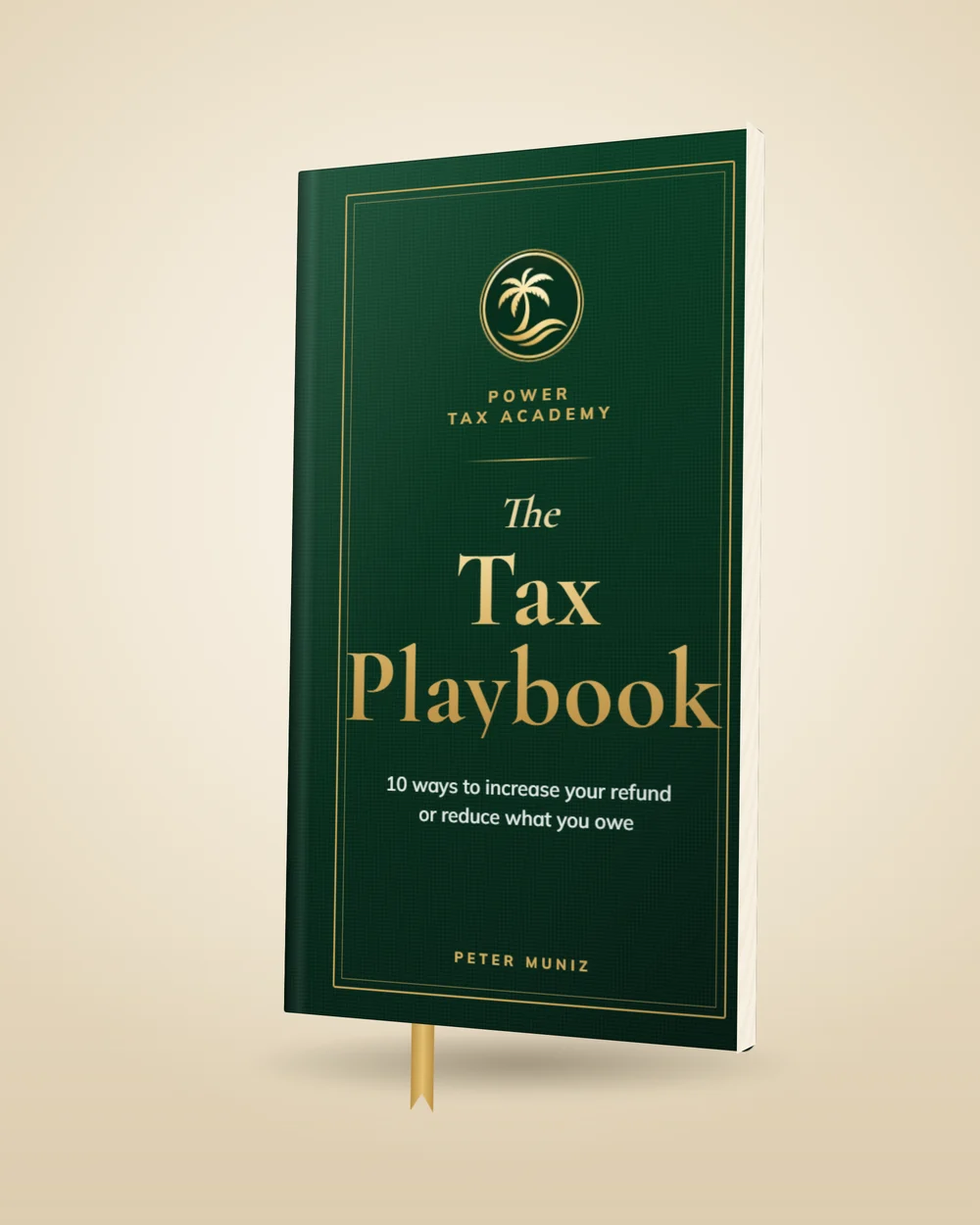
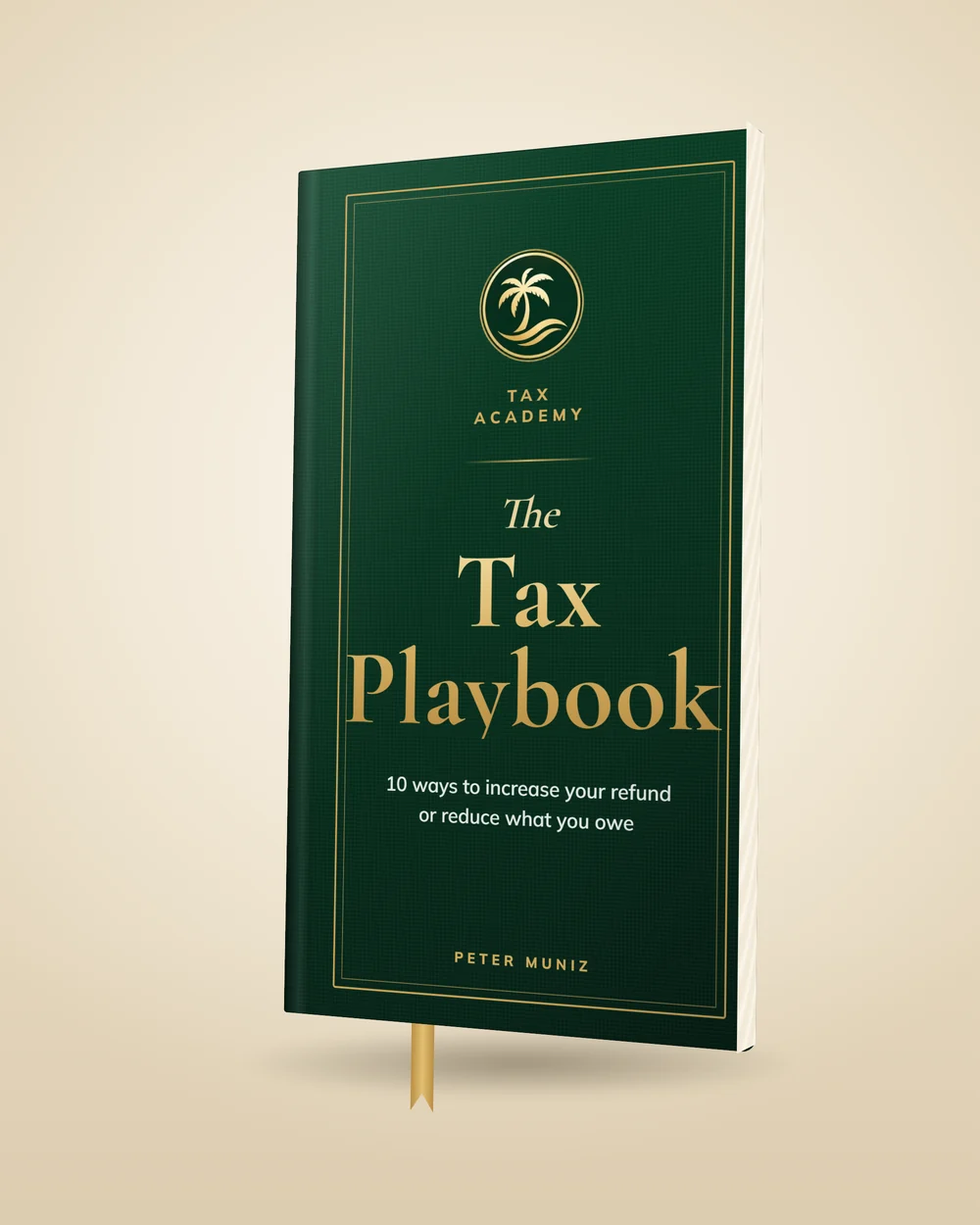
Three tax academies (Coastal Bend / Purpose / Power), 50% down, Square first, PayPal Pay Later

diff --git a/tax-academy/index.html b/tax-academy/index.html
@@ -3,16 +3,16 @@
 <head>
 <meta charset="UTF-8">
 <meta name="viewport" content="width=device-width, initial-scale=1, viewport-fit=cover">
-<title>Power Tax Academy: Tax Playbooks &amp; Coaching | Coastal Bend Tax &amp; Financial</title>
-<meta name="description" content="Power Tax Academy by Peter Muniz: Tax Playbook $399, Tax Playbook &amp; Me $699, VIP $999. $150 deposit option. Plus monthly and per-case support for tax preparers.">
+<title>Tax Academy: Coastal Bend, Purpose &amp; Power | Coastal Bend Tax &amp; Financial</title>
+<meta name="description" content="Three levels of tax education with Peter Muniz: Coastal Bend Tax Academy $399, Purpose Tax Academy $699, Power Tax Academy $999. 50% down to start. Plus support for tax preparers.">
 <meta name="robots" content="noindex, nofollow">
 <meta name="theme-color" content="#062E1C">
 <link rel="canonical" href="https://jzonkel1.github.io/cbtf-preview/tax-academy/">
 <meta property="og:type" content="website">
 <meta property="og:site_name" content="Coastal Bend Tax &amp; Financial">
 <meta property="og:url" content="https://jzonkel1.github.io/cbtf-preview/tax-academy/">
-<meta property="og:title" content="Power Tax Academy: Tax Playbooks &amp; Coaching | Coastal Bend Tax &amp; Financial">
-<meta property="og:description" content="Power Tax Academy by Peter Muniz: Tax Playbook $399, Tax Playbook &amp; Me $699, VIP $999. $150 deposit option. Plus monthly and per-case support for tax preparers.">
+<meta property="og:title" content="Tax Academy: Coastal Bend, Purpose &amp; Power | Coastal Bend Tax &amp; Financial">
+<meta property="og:description" content="Three levels of tax education with Peter Muniz: Coastal Bend Tax Academy $399, Purpose Tax Academy $699, Power Tax Academy $999. 50% down to start. Plus support for tax preparers.">
 <meta property="og:image" content="https://jzonkel1.github.io/cbtf-preview/img/og.jpg?v=2">
 <meta property="og:image:secure_url" content="https://jzonkel1.github.io/cbtf-preview/img/og.jpg?v=2">
 <meta property="og:image:width" content="1200">
@@ -56,26 +56,26 @@
   <picture><source media="(max-width:760px)" srcset="../img/hero-academy-m.webp"><img src="../img/hero-academy.webp" alt="Laptop, notepad and coffee on a desk" style="object-position:50% 50%" fetchpriority="high"></picture>
   <div class="wrap"><div class="fh-copy">
     <div class="crumbs"><a href="../">Home</a> &nbsp;/&nbsp; Tax Academy</div>
-    <span class="who-does direct">Provided directly</span><br><div class="kick left">Power Tax Academy</div>
+    <span class="who-does direct">Provided directly</span><br><div class="kick left">Three Tax Academies</div>
     <h1><span class="nw">Learn it.</span> <span class="nw">Apply it.</span> <span class="nw">Teach it.</span></h1>
-    <p class="lede">Learn to handle your taxes the right way, at your own pace or with Pete coaching you. Three packages, starting at $399.</p>
+    <p class="lede">Tax education and training from Peter Muniz, at your own pace or with Pete coaching you. Three levels, starting at $399.</p>
     <div class="ctas"><a class="btn btn-gold" href="#packages">See the Packages</a><a class="btn btn-line-light" href="../contact/?type=academy"><svg viewBox="0 0 256 256" fill="currentColor"><path d="M208 32h-24v-8a8 8 0 0 0-16 0v8H88v-8a8 8 0 0 0-16 0v8H48a16 16 0 0 0-16 16v160a16 16 0 0 0 16 16h160a16 16 0 0 0 16-16V48a16 16 0 0 0-16-16Zm-38.34 85.66-48 48a8 8 0 0 1-11.32 0l-24-24a8 8 0 0 1 11.32-11.32L116 148.69l42.34-42.35a8 8 0 0 1 11.32 11.32ZM48 80V48h24v8a8 8 0 0 0 16 0v-8h80v8a8 8 0 0 0 16 0v-8h24v32Z"/></svg>Book an Academy Call</a></div>
     <div class="trust"><span><svg viewBox="0 0 256 256" fill="currentColor"><path d="M128 24a104 104 0 1 0 104 104A104.11 104.11 0 0 0 128 24Zm45.66 85.66-56 56a8 8 0 0 1-11.32 0l-24-24a8 8 0 0 1 11.32-11.32L112 148.69l50.34-50.35a8 8 0 0 1 11.32 11.32Z"/></svg>20+ years in finance</span><span><svg viewBox="0 0 256 256" fill="currentColor"><path d="M128 24a104 104 0 1 0 104 104A104.11 104.11 0 0 0 128 24Zm45.66 85.66-56 56a8 8 0 0 1-11.32 0l-24-24a8 8 0 0 1 11.32-11.32L112 148.69l50.34-50.35a8 8 0 0 1 11.32 11.32Z"/></svg>Open 7 days</span><span><svg viewBox="0 0 256 256" fill="currentColor"><path d="M128 24a104 104 0 1 0 104 104A104.11 104.11 0 0 0 128 24Zm45.66 85.66-56 56a8 8 0 0 1-11.32 0l-24-24a8 8 0 0 1 11.32-11.32L112 148.69l50.34-50.35a8 8 0 0 1 11.32 11.32Z"/></svg>Se habla espa&ntilde;ol</span></div>
   </div></div>
 </section><section class="tstrip"><div class="wrap"><ul><li><svg viewBox="0 0 256 256" fill="currentColor" aria-hidden="true"><path fill="currentColor" d="M225.86 102.82c-3.77-3.94-7.67-8-9.14-11.57c-1.36-3.27-1.44-8.69-1.52-13.94c-.15-9.76-.31-20.82-8-28.51s-18.75-7.85-28.51-8c-5.25-.08-10.67-.16-13.94-1.52c-3.56-1.47-7.63-5.37-11.57-9.14C146.28 23.51 138.44 16 128 16s-18.27 7.51-25.18 14.14c-3.94 3.77-8 7.67-11.57 9.14c-3.25 1.36-8.69 1.44-13.94 1.52c-9.76.15-20.82.31-28.51 8s-7.8 18.75-8 28.51c-.08 5.25-.16 10.67-1.52 13.94c-1.47 3.56-5.37 7.63-9.14 11.57C23.51 109.72 16 117.56 16 128s7.51 18.27 14.14 25.18c3.77 3.94 7.67 8 9.14 11.57c1.36 3.27 1.44 8.69 1.52 13.94c.15 9.76.31 20.82 8 28.51s18.75 7.85 28.51 8c5.25.08 10.67.16 13.94 1.52c3.56 1.47 7.63 5.37 11.57 9.14c6.9 6.63 14.74 14.14 25.18 14.14s18.27-7.51 25.18-14.14c3.94-3.77 8-7.67 11.57-9.14c3.27-1.36 8.69-1.44 13.94-1.52c9.76-.15 20.82-.31 28.51-8s7.85-18.75 8-28.51c.08-5.25.16-10.67 1.52-13.94c1.47-3.56 5.37-7.63 9.14-11.57c6.63-6.9 14.14-14.74 14.14-25.18s-7.51-18.27-14.14-25.18m-52.2 6.84l-56 56a8 8 0 0 1-11.32 0l-24-24a8 8 0 0 1 11.32-11.32L112 148.69l50.34-50.35a8 8 0 0 1 11.32 11.32"/></svg><div>20+ years in finance<span>City, Port &amp; private sector</span></div></li><li><svg viewBox="0 0 256 256" fill="currentColor" aria-hidden="true"><path fill="currentColor" d="M176 207.24a119 119 0 0 0 16-7.73V240a8 8 0 0 1-16 0Zm11.76-88.43l-56-29.87a8 8 0 0 0-7.52 14.12L171 128l17-9.06Zm64-29.87l-120-64a8 8 0 0 0-7.52 0l-120 64a8 8 0 0 0 0 14.12L32 117.87v48.42a15.9 15.9 0 0 0 4.06 10.65C49.16 191.53 78.51 216 128 216a130 130 0 0 0 48-8.76v-76.57l-5-2.67l-43 22.93L43.83 106L25 96l103-54.93L231 96l-18.78 10h-.06L188 118.94a8 8 0 0 1 4 6.93v73.64a115.6 115.6 0 0 0 27.94-22.57a15.9 15.9 0 0 0 4.06-10.65v-48.42l27.76-14.81a8 8 0 0 0 0-14.12"/></svg><div>Master&rsquo;s in Accounting<span>Texas A&amp;M&ndash;Corpus Christi</span></div></li><li><svg viewBox="0 0 256 256" fill="currentColor" aria-hidden="true"><path fill="currentColor" d="M128 24a104 104 0 1 0 104 104A104.11 104.11 0 0 0 128 24m56 112h-56a8 8 0 0 1-8-8V72a8 8 0 0 1 16 0v48h48a8 8 0 0 1 0 16"/></svg><div>Open 7 days<span>10 AM to 7 PM</span></div></li><li><svg viewBox="0 0 256 256" fill="currentColor" aria-hidden="true"><path fill="currentColor" d="M160 129.89L175.06 160h-30.12l6.36-12.7ZM224 48v160a16 16 0 0 1-16 16H48a16 16 0 0 1-16-16V48a16 16 0 0 1 16-16h160a16 16 0 0 1 16 16m-16.84 140.42l-40-80a8 8 0 0 0-14.32 0l-13.18 26.38a62.3 62.3 0 0 1-23.61-10A79.6 79.6 0 0 0 135.6 80H152a8 8 0 0 0 0-16h-40v-8a8 8 0 0 0-16 0v8H56a8 8 0 0 0 0 16h63.48a63.73 63.73 0 0 1-15.3 34.05a66 66 0 0 1-9-13.61a8 8 0 0 0-14.32 7.12a81.8 81.8 0 0 0 11.4 17.15A63.6 63.6 0 0 1 56 136a8 8 0 0 0 0 16a79.56 79.56 0 0 0 48.11-16.13a78.3 78.3 0 0 0 28.18 13.66l-19.45 38.89a8 8 0 0 0 14.32 7.16l9.78-19.58h46.12l9.78 19.58a8 8 0 1 0 14.32-7.16"/></svg><div>Se habla espa&ntilde;ol<span>In person, phone or online</span></div></li></ul></div></section>
 <section id="packages"><div class="wrap">
-  <div class="sec-head c"><div class="kick">Power Tax Academy</div><h2>Pick how much help you want.</h2>
-    <p class="lead">Pay in full, or hold your spot with a $150 deposit that applies toward any package.</p></div>
-  <div class="pkg-grid"><article class="pkg" id="pkg-playbook"><div class="ic"><svg viewBox="0 0 256 256" fill="currentColor"><path d="M224 48h-64a40 40 0 0 0-32 16 40 40 0 0 0-32-16H32a16 16 0 0 0-16 16v128a16 16 0 0 0 16 16h64a24 24 0 0 1 24 24 8 8 0 0 0 16 0 24 24 0 0 1 24-24h64a16 16 0 0 0 16-16V64a16 16 0 0 0-16-16Zm0 144h-64a39.81 39.81 0 0 0-24 8V88a24 24 0 0 1 24-24h64Z"/></svg></div><h3>Tax Playbook</h3><div class="pkg-price">$399</div><ul class="pkg-list"><li><svg viewBox="0 0 256 256" fill="currentColor"><path d="M128 24a104 104 0 1 0 104 104A104.11 104.11 0 0 0 128 24Zm45.66 85.66-56 56a8 8 0 0 1-11.32 0l-24-24a8 8 0 0 1 11.32-11.32L112 148.69l50.34-50.35a8 8 0 0 1 11.32 11.32Z"/></svg>Book and training materials</li><li><svg viewBox="0 0 256 256" fill="currentColor"><path d="M128 24a104 104 0 1 0 104 104A104.11 104.11 0 0 0 128 24Zm45.66 85.66-56 56a8 8 0 0 1-11.32 0l-24-24a8 8 0 0 1 11.32-11.32L112 148.69l50.34-50.35a8 8 0 0 1 11.32 11.32Z"/></svg>Learn at your own pace</li><li class="no">No personal coaching</li></ul><div class="buy"><div class="opts" role="radiogroup"><label><input type="radio" name="oTaxPlaybook" value="0" checked data-name="Tax Playbook" data-amt="399.00" data-href="https://www.paypal.com/cgi-bin/webscr?business=petermuniz%40outlook.com&amp;item_name=Tax+Playbook&amp;currency_code=USD&amp;no_shipping=1&amp;return=https%3A%2F%2Fjzonkel1.github.io%2Fcbtf-preview%2Fthanks%2F%3Fpaid%3D1&amp;cmd=_xclick&amp;amount=399.00"><span><b>Pay in full</b></span><em>$399</em></label><label><input type="radio" name="oTaxPlaybook" value="1" data-name="Tax Playbook - $150 deposit" data-amt="150.00" data-href="https://www.paypal.com/cgi-bin/webscr?business=petermuniz%40outlook.com&amp;item_name=Tax+Playbook+-+%24150+deposit&amp;currency_code=USD&amp;no_shipping=1&amp;return=https%3A%2F%2Fjzonkel1.github.io%2Fcbtf-preview%2Fthanks%2F%3Fpaid%3D1&amp;cmd=_xclick&amp;amount=150.00"><span><b>$150 deposit</b><small>Applies toward your package. $249 remaining.</small></span><em>$150</em></label></div><div class="pp" data-name="Tax Playbook" data-amt="399.00" data-ok="../thanks/?paid=1"></div><a class="btn btn-gold pp-fallback" href="https://www.paypal.com/cgi-bin/webscr?business=petermuniz%40outlook.com&amp;item_name=Tax+Playbook&amp;currency_code=USD&amp;no_shipping=1&amp;return=https%3A%2F%2Fjzonkel1.github.io%2Fcbtf-preview%2Fthanks%2F%3Fpaid%3D1&amp;cmd=_xclick&amp;amount=399.00" rel="nofollow">Pay with PayPal</a><small class="pp-note">Secure checkout with PayPal or a debit/credit card.</small></div></article><article class="pkg" id="pkg-playbook-me"><div class="ic"><svg viewBox="0 0 256 256" fill="currentColor"><path d="M230.92 212c-15.23-26.33-38.7-45.21-66.09-54.16a72 72 0 1 0-73.66 0c-27.39 8.94-50.86 27.82-66.09 54.16a8 8 0 1 0 13.85 8c18.84-32.56 52.14-52 89.07-52s70.23 19.44 89.07 52a8 8 0 1 0 13.85-8Z"/></svg></div><h3>Tax Playbook &amp; Me</h3><div class="pkg-price">$699</div><ul class="pkg-list"><li><svg viewBox="0 0 256 256" fill="currentColor"><path d="M128 24a104 104 0 1 0 104 104A104.11 104.11 0 0 0 128 24Zm45.66 85.66-56 56a8 8 0 0 1-11.32 0l-24-24a8 8 0 0 1 11.32-11.32L112 148.69l50.34-50.35a8 8 0 0 1 11.32 11.32Z"/></svg>Everything in the Tax Playbook</li><li><svg viewBox="0 0 256 256" fill="currentColor"><path d="M128 24a104 104 0 1 0 104 104A104.11 104.11 0 0 0 128 24Zm45.66 85.66-56 56a8 8 0 0 1-11.32 0l-24-24a8 8 0 0 1 11.32-11.32L112 148.69l50.34-50.35a8 8 0 0 1 11.32 11.32Z"/></svg>Limited personal coaching</li><li class="no">No priority scheduling</li></ul><div class="buy"><div class="opts" role="radiogroup"><label><input type="radio" name="oTaxPlaybookampMe" value="0" checked data-name="Tax Playbook &amp; Me" data-amt="699.00" data-href="https://www.paypal.com/cgi-bin/webscr?business=petermuniz%40outlook.com&amp;item_name=Tax+Playbook+%26+Me&amp;currency_code=USD&amp;no_shipping=1&amp;return=https%3A%2F%2Fjzonkel1.github.io%2Fcbtf-preview%2Fthanks%2F%3Fpaid%3D1&amp;cmd=_xclick&amp;amount=699.00"><span><b>Pay in full</b></span><em>$699</em></label><label><input type="radio" name="oTaxPlaybookampMe" value="1" data-name="Tax Playbook &amp; Me - $150 deposit" data-amt="150.00" data-href="https://www.paypal.com/cgi-bin/webscr?business=petermuniz%40outlook.com&amp;item_name=Tax+Playbook+%26+Me+-+%24150+deposit&amp;currency_code=USD&amp;no_shipping=1&amp;return=https%3A%2F%2Fjzonkel1.github.io%2Fcbtf-preview%2Fthanks%2F%3Fpaid%3D1&amp;cmd=_xclick&amp;amount=150.00"><span><b>$150 deposit</b><small>Applies toward your package. $549 remaining.</small></span><em>$150</em></label></div><div class="pp" data-name="Tax Playbook &amp; Me" data-amt="699.00" data-ok="../thanks/?paid=1"></div><a class="btn btn-gold pp-fallback" href="https://www.paypal.com/cgi-bin/webscr?business=petermuniz%40outlook.com&amp;item_name=Tax+Playbook+%26+Me&amp;currency_code=USD&amp;no_shipping=1&amp;return=https%3A%2F%2Fjzonkel1.github.io%2Fcbtf-preview%2Fthanks%2F%3Fpaid%3D1&amp;cmd=_xclick&amp;amount=699.00" rel="nofollow">Pay with PayPal</a><small class="pp-note">Secure checkout with PayPal or a debit/credit card.</small></div></article><article class="pkg feat" id="pkg-vip"><span class="pkg-flag">Most coaching</span><div class="ic"><svg viewBox="0 0 256 256" fill="currentColor"><path d="M239.2 97.29a16 16 0 0 0-13.81-11L166 81.17l-23.28-55.36a15.95 15.95 0 0 0-29.44 0L90.07 81.17l-59.46 5.15a16 16 0 0 0-9.11 28.06l45.11 39.42-13.52 58.54a16 16 0 0 0 23.84 17.34l51-31 51.11 31a16 16 0 0 0 23.84-17.34l-13.51-58.6 45.1-39.36a16 16 0 0 0 4.73-17.09Z"/></svg></div><h3>Power Tax Academy VIP</h3><div class="pkg-price">$999</div><ul class="pkg-list"><li><svg viewBox="0 0 256 256" fill="currentColor"><path d="M128 24a104 104 0 1 0 104 104A104.11 104.11 0 0 0 128 24Zm45.66 85.66-56 56a8 8 0 0 1-11.32 0l-24-24a8 8 0 0 1 11.32-11.32L112 148.69l50.34-50.35a8 8 0 0 1 11.32 11.32Z"/></svg>Everything in the Tax Playbook and Tax Playbook &amp; Me</li><li><svg viewBox="0 0 256 256" fill="currentColor"><path d="M128 24a104 104 0 1 0 104 104A104.11 104.11 0 0 0 128 24Zm45.66 85.66-56 56a8 8 0 0 1-11.32 0l-24-24a8 8 0 0 1 11.32-11.32L112 148.69l50.34-50.35a8 8 0 0 1 11.32 11.32Z"/></svg>Unlimited scheduled coaching for 12 months</li><li><svg viewBox="0 0 256 256" fill="currentColor"><path d="M128 24a104 104 0 1 0 104 104A104.11 104.11 0 0 0 128 24Zm45.66 85.66-56 56a8 8 0 0 1-11.32 0l-24-24a8 8 0 0 1 11.32-11.32L112 148.69l50.34-50.35a8 8 0 0 1 11.32 11.32Z"/></svg>Priority scheduling and personal guidance</li></ul><div class="buy"><div class="opts" role="radiogroup"><label><input type="radio" name="oPowerTaxAcademyVIP" value="0" checked data-name="Power Tax Academy VIP" data-amt="999.00" data-href="https://www.paypal.com/cgi-bin/webscr?business=petermuniz%40outlook.com&amp;item_name=Power+Tax+Academy+VIP&amp;currency_code=USD&amp;no_shipping=1&amp;return=https%3A%2F%2Fjzonkel1.github.io%2Fcbtf-preview%2Fthanks%2F%3Fpaid%3D1&amp;cmd=_xclick&amp;amount=999.00"><span><b>Pay in full</b></span><em>$999</em></label><label><input type="radio" name="oPowerTaxAcademyVIP" value="1" data-name="Power Tax Academy VIP - $150 deposit" data-amt="150.00" data-href="https://www.paypal.com/cgi-bin/webscr?business=petermuniz%40outlook.com&amp;item_name=Power+Tax+Academy+VIP+-+%24150+deposit&amp;currency_code=USD&amp;no_shipping=1&amp;return=https%3A%2F%2Fjzonkel1.github.io%2Fcbtf-preview%2Fthanks%2F%3Fpaid%3D1&amp;cmd=_xclick&amp;amount=150.00"><span><b>$150 deposit</b><small>Applies toward your package. $849 remaining.</small></span><em>$150</em></label></div><div class="pp" data-name="Power Tax Academy VIP" data-amt="999.00" data-ok="../thanks/?paid=1"></div><a class="btn btn-gold pp-fallback" href="https://www.paypal.com/cgi-bin/webscr?business=petermuniz%40outlook.com&amp;item_name=Power+Tax+Academy+VIP&amp;currency_code=USD&amp;no_shipping=1&amp;return=https%3A%2F%2Fjzonkel1.github.io%2Fcbtf-preview%2Fthanks%2F%3Fpaid%3D1&amp;cmd=_xclick&amp;amount=999.00" rel="nofollow">Pay with PayPal</a><small class="pp-note">Secure checkout with PayPal or a debit/credit card.</small></div></article></div>
+  <div class="sec-head c"><div class="kick">Choose your academy</div><h2>Pick how much help you want.</h2>
+    <p class="lead">Three levels of tax education and training. Pay in full or start with 50% down, and upgrade to a higher academy anytime.</p></div>
+  <div class="pkg-grid"><article class="pkg" id="pkg-playbook"><div class="ic"><svg viewBox="0 0 256 256" fill="currentColor"><path d="M224 48h-64a40 40 0 0 0-32 16 40 40 0 0 0-32-16H32a16 16 0 0 0-16 16v128a16 16 0 0 0 16 16h64a24 24 0 0 1 24 24 8 8 0 0 0 16 0 24 24 0 0 1 24-24h64a16 16 0 0 0 16-16V64a16 16 0 0 0-16-16Zm0 144h-64a39.81 39.81 0 0 0-24 8V88a24 24 0 0 1 24-24h64Z"/></svg></div><h3>Coastal Bend Tax Academy</h3><div class="pkg-price">$399</div><ul class="pkg-list"><li><svg viewBox="0 0 256 256" fill="currentColor"><path d="M128 24a104 104 0 1 0 104 104A104.11 104.11 0 0 0 128 24Zm45.66 85.66-56 56a8 8 0 0 1-11.32 0l-24-24a8 8 0 0 1 11.32-11.32L112 148.69l50.34-50.35a8 8 0 0 1 11.32 11.32Z"/></svg>The Tax Playbook and training materials</li><li><svg viewBox="0 0 256 256" fill="currentColor"><path d="M128 24a104 104 0 1 0 104 104A104.11 104.11 0 0 0 128 24Zm45.66 85.66-56 56a8 8 0 0 1-11.32 0l-24-24a8 8 0 0 1 11.32-11.32L112 148.69l50.34-50.35a8 8 0 0 1 11.32 11.32Z"/></svg>Learn at your own pace</li><li class="no">No personal coaching</li></ul><div class="buy"><div class="opts" role="radiogroup"><label><input type="radio" name="oCoastalBendTaxAcademy" value="0" checked data-name="Coastal Bend Tax Academy" data-amt="399.00" data-href="https://www.paypal.com/cgi-bin/webscr?business=petermuniz%40outlook.com&amp;item_name=Coastal+Bend+Tax+Academy&amp;currency_code=USD&amp;no_shipping=1&amp;return=https%3A%2F%2Fjzonkel1.github.io%2Fcbtf-preview%2Fthanks%2F%3Fpaid%3D1&amp;cmd=_xclick&amp;amount=399.00"><span><b>Pay in full</b></span><em>$399</em></label><label><input type="radio" name="oCoastalBendTaxAcademy" value="1" data-name="Coastal Bend Tax Academy - 50% down" data-amt="199.50" data-href="https://www.paypal.com/cgi-bin/webscr?business=petermuniz%40outlook.com&amp;item_name=Coastal+Bend+Tax+Academy+-+50%25+down&amp;currency_code=USD&amp;no_shipping=1&amp;return=https%3A%2F%2Fjzonkel1.github.io%2Fcbtf-preview%2Fthanks%2F%3Fpaid%3D1&amp;cmd=_xclick&amp;amount=199.50"><span><b>50% down</b><small>Get started today. The other $199.50 is due later.</small></span><em>$199.50</em></label></div><div class="pp" data-name="Coastal Bend Tax Academy" data-amt="399.00" data-ok="../thanks/?paid=1"></div><a class="btn btn-gold pp-fallback" href="https://www.paypal.com/cgi-bin/webscr?business=petermuniz%40outlook.com&amp;item_name=Coastal+Bend+Tax+Academy&amp;currency_code=USD&amp;no_shipping=1&amp;return=https%3A%2F%2Fjzonkel1.github.io%2Fcbtf-preview%2Fthanks%2F%3Fpaid%3D1&amp;cmd=_xclick&amp;amount=399.00" rel="nofollow">Pay with PayPal</a><small class="pp-note">Secure checkout. Financing options available through eligible providers.</small></div></article><article class="pkg" id="pkg-playbook-me"><div class="ic"><svg viewBox="0 0 256 256" fill="currentColor"><path d="M230.92 212c-15.23-26.33-38.7-45.21-66.09-54.16a72 72 0 1 0-73.66 0c-27.39 8.94-50.86 27.82-66.09 54.16a8 8 0 1 0 13.85 8c18.84-32.56 52.14-52 89.07-52s70.23 19.44 89.07 52a8 8 0 1 0 13.85-8Z"/></svg></div><h3>Purpose Tax Academy</h3><div class="pkg-price">$699</div><ul class="pkg-list"><li><svg viewBox="0 0 256 256" fill="currentColor"><path d="M128 24a104 104 0 1 0 104 104A104.11 104.11 0 0 0 128 24Zm45.66 85.66-56 56a8 8 0 0 1-11.32 0l-24-24a8 8 0 0 1 11.32-11.32L112 148.69l50.34-50.35a8 8 0 0 1 11.32 11.32Z"/></svg>Everything in Coastal Bend Tax Academy</li><li><svg viewBox="0 0 256 256" fill="currentColor"><path d="M128 24a104 104 0 1 0 104 104A104.11 104.11 0 0 0 128 24Zm45.66 85.66-56 56a8 8 0 0 1-11.32 0l-24-24a8 8 0 0 1 11.32-11.32L112 148.69l50.34-50.35a8 8 0 0 1 11.32 11.32Z"/></svg>Limited personal coaching</li><li class="no">No priority scheduling</li></ul><div class="buy has-sq"><div class="opts" role="radiogroup"><label><input type="radio" name="oPurposeTaxAcademy" value="0" checked data-name="Purpose Tax Academy" data-amt="699.00" data-href="https://www.paypal.com/cgi-bin/webscr?business=petermuniz%40outlook.com&amp;item_name=Purpose+Tax+Academy&amp;currency_code=USD&amp;no_shipping=1&amp;return=https%3A%2F%2Fjzonkel1.github.io%2Fcbtf-preview%2Fthanks%2F%3Fpaid%3D1&amp;cmd=_xclick&amp;amount=699.00"><span><b>Pay in full</b></span><em>$699</em></label><label><input type="radio" name="oPurposeTaxAcademy" value="1" data-name="Purpose Tax Academy - 50% down" data-amt="349.50" data-href="https://www.paypal.com/cgi-bin/webscr?business=petermuniz%40outlook.com&amp;item_name=Purpose+Tax+Academy+-+50%25+down&amp;currency_code=USD&amp;no_shipping=1&amp;return=https%3A%2F%2Fjzonkel1.github.io%2Fcbtf-preview%2Fthanks%2F%3Fpaid%3D1&amp;cmd=_xclick&amp;amount=349.50"><span><b>50% down</b><small>Get started today. The other $349.50 is due later.</small></span><em>$349.50</em></label></div><a class="btn btn-green sq-btn" href="https://square.link/u/Jw4L2MV9" target="_blank" rel="nofollow noopener">Pay with Square</a><span class="pp-or">or pay with PayPal</span><div class="pp" data-name="Purpose Tax Academy" data-amt="699.00" data-ok="../thanks/?paid=1"></div><a class="btn btn-gold pp-fallback" href="https://www.paypal.com/cgi-bin/webscr?business=petermuniz%40outlook.com&amp;item_name=Purpose+Tax+Academy&amp;currency_code=USD&amp;no_shipping=1&amp;return=https%3A%2F%2Fjzonkel1.github.io%2Fcbtf-preview%2Fthanks%2F%3Fpaid%3D1&amp;cmd=_xclick&amp;amount=699.00" rel="nofollow">Pay with PayPal</a><small class="pp-note">Secure checkout. Financing options available through eligible providers.</small></div></article><article class="pkg feat" id="pkg-vip"><span class="pkg-flag">Most coaching</span><div class="ic"><svg viewBox="0 0 256 256" fill="currentColor"><path d="M239.2 97.29a16 16 0 0 0-13.81-11L166 81.17l-23.28-55.36a15.95 15.95 0 0 0-29.44 0L90.07 81.17l-59.46 5.15a16 16 0 0 0-9.11 28.06l45.11 39.42-13.52 58.54a16 16 0 0 0 23.84 17.34l51-31 51.11 31a16 16 0 0 0 23.84-17.34l-13.51-58.6 45.1-39.36a16 16 0 0 0 4.73-17.09Z"/></svg></div><h3>Power Tax Academy</h3><div class="pkg-price">$999</div><ul class="pkg-list"><li><svg viewBox="0 0 256 256" fill="currentColor"><path d="M128 24a104 104 0 1 0 104 104A104.11 104.11 0 0 0 128 24Zm45.66 85.66-56 56a8 8 0 0 1-11.32 0l-24-24a8 8 0 0 1 11.32-11.32L112 148.69l50.34-50.35a8 8 0 0 1 11.32 11.32Z"/></svg>Everything in Coastal Bend and Purpose Tax Academy</li><li><svg viewBox="0 0 256 256" fill="currentColor"><path d="M128 24a104 104 0 1 0 104 104A104.11 104.11 0 0 0 128 24Zm45.66 85.66-56 56a8 8 0 0 1-11.32 0l-24-24a8 8 0 0 1 11.32-11.32L112 148.69l50.34-50.35a8 8 0 0 1 11.32 11.32Z"/></svg>Unlimited scheduled coaching for 12 months</li><li><svg viewBox="0 0 256 256" fill="currentColor"><path d="M128 24a104 104 0 1 0 104 104A104.11 104.11 0 0 0 128 24Zm45.66 85.66-56 56a8 8 0 0 1-11.32 0l-24-24a8 8 0 0 1 11.32-11.32L112 148.69l50.34-50.35a8 8 0 0 1 11.32 11.32Z"/></svg>Priority scheduling and personal guidance</li></ul><div class="buy"><div class="opts" role="radiogroup"><label><input type="radio" name="oPowerTaxAcademy" value="0" checked data-name="Power Tax Academy" data-amt="999.00" data-href="https://www.paypal.com/cgi-bin/webscr?business=petermuniz%40outlook.com&amp;item_name=Power+Tax+Academy&amp;currency_code=USD&amp;no_shipping=1&amp;return=https%3A%2F%2Fjzonkel1.github.io%2Fcbtf-preview%2Fthanks%2F%3Fpaid%3D1&amp;cmd=_xclick&amp;amount=999.00"><span><b>Pay in full</b></span><em>$999</em></label><label><input type="radio" name="oPowerTaxAcademy" value="1" data-name="Power Tax Academy - 50% down" data-amt="499.50" data-href="https://www.paypal.com/cgi-bin/webscr?business=petermuniz%40outlook.com&amp;item_name=Power+Tax+Academy+-+50%25+down&amp;currency_code=USD&amp;no_shipping=1&amp;return=https%3A%2F%2Fjzonkel1.github.io%2Fcbtf-preview%2Fthanks%2F%3Fpaid%3D1&amp;cmd=_xclick&amp;amount=499.50"><span><b>50% down</b><small>Get started today. The other $499.50 is due later.</small></span><em>$499.50</em></label></div><div class="pp" data-name="Power Tax Academy" data-amt="999.00" data-ok="../thanks/?paid=1"></div><a class="btn btn-gold pp-fallback" href="https://www.paypal.com/cgi-bin/webscr?business=petermuniz%40outlook.com&amp;item_name=Power+Tax+Academy&amp;currency_code=USD&amp;no_shipping=1&amp;return=https%3A%2F%2Fjzonkel1.github.io%2Fcbtf-preview%2Fthanks%2F%3Fpaid%3D1&amp;cmd=_xclick&amp;amount=999.00" rel="nofollow">Pay with PayPal</a><small class="pp-note">Secure checkout. Financing options available through eligible providers.</small></div></article></div>
 </div></section>
 
 <section class="alt"><div class="wrap pb">
-  <div class="pb-photo"><picture><source media="(max-width:760px)" srcset="../img/playbook-cover-m.webp"><img src="../img/playbook-cover.webp" width="1000" height="1250" alt="The Tax Playbook by Peter Muniz, Power Tax Academy" loading="lazy" decoding="async"></picture><span class="pb-tag">Find your financial purpose</span></div>
+  <div class="pb-photo"><picture><source media="(max-width:760px)" srcset="../img/playbook-cover-m.webp"><img src="../img/playbook-cover.webp" width="1000" height="1250" alt="The Tax Playbook by Peter Muniz" loading="lazy" decoding="async"></picture><span class="pb-tag">Find your financial purpose</span></div>
   <div class="pb-copy">
     <div class="kick left">Upgrades</div>
     <h2>Already enrolled? Move up.</h2>
-    <p class="lead">Want more coaching? Upgrade any time and pay only the difference: $300 for each step up.</p>
-    <div class="pkg upg"><div class="buy"><div class="opts" role="radiogroup"><label><input type="radio" name="oUpgradeTaxPlaybooktoTaxP" value="0" checked data-name="Upgrade: Tax Playbook to Tax Playbook &amp; Me" data-amt="300.00" data-href="https://www.paypal.com/cgi-bin/webscr?business=petermuniz%40outlook.com&amp;item_name=Upgrade%3A+Tax+Playbook+to+Tax+Playbook+%26+Me&amp;currency_code=USD&amp;no_shipping=1&amp;return=https%3A%2F%2Fjzonkel1.github.io%2Fcbtf-preview%2Fthanks%2F%3Fpaid%3D1&amp;cmd=_xclick&amp;amount=300.00"><span><b>Tax Playbook to Tax Playbook &amp; Me</b><small>$399 to $699</small></span><em>$300</em></label><label><input type="radio" name="oUpgradeTaxPlaybooktoTaxP" value="1" data-name="Upgrade: Tax Playbook &amp; Me to Power Tax Academy VIP" data-amt="300.00" data-href="https://www.paypal.com/cgi-bin/webscr?business=petermuniz%40outlook.com&amp;item_name=Upgrade%3A+Tax+Playbook+%26+Me+to+Power+Tax+Academy+VIP&amp;currency_code=USD&amp;no_shipping=1&amp;return=https%3A%2F%2Fjzonkel1.github.io%2Fcbtf-preview%2Fthanks%2F%3Fpaid%3D1&amp;cmd=_xclick&amp;amount=300.00"><span><b>Tax Playbook &amp; Me to Power Tax Academy VIP</b><small>$699 to $999</small></span><em>$300</em></label></div><div class="pp" data-name="Upgrade: Tax Playbook to Tax Playbook &amp; Me" data-amt="300.00" data-ok="../thanks/?paid=1"></div><a class="btn btn-gold pp-fallback" href="https://www.paypal.com/cgi-bin/webscr?business=petermuniz%40outlook.com&amp;item_name=Upgrade%3A+Tax+Playbook+to+Tax+Playbook+%26+Me&amp;currency_code=USD&amp;no_shipping=1&amp;return=https%3A%2F%2Fjzonkel1.github.io%2Fcbtf-preview%2Fthanks%2F%3Fpaid%3D1&amp;cmd=_xclick&amp;amount=300.00" rel="nofollow">Pay with PayPal</a><small class="pp-note">Secure checkout with PayPal or a debit/credit card.</small></div></div>
+    <p class="lead">Want more coaching? Move up to a higher academy anytime and pay only the difference: $300 for each level.</p>
+    <div class="pkg upg"><div class="buy"><div class="opts" role="radiogroup"><label><input type="radio" name="oUpgradeCoastalBendTaxAca" value="0" checked data-name="Upgrade: Coastal Bend Tax Academy to Purpose Tax Academy" data-amt="300.00" data-href="https://www.paypal.com/cgi-bin/webscr?business=petermuniz%40outlook.com&amp;item_name=Upgrade%3A+Coastal+Bend+Tax+Academy+to+Purpose+Tax+Academy&amp;currency_code=USD&amp;no_shipping=1&amp;return=https%3A%2F%2Fjzonkel1.github.io%2Fcbtf-preview%2Fthanks%2F%3Fpaid%3D1&amp;cmd=_xclick&amp;amount=300.00"><span><b>Coastal Bend Tax Academy to Purpose Tax Academy</b><small>$399 to $699</small></span><em>$300</em></label><label><input type="radio" name="oUpgradeCoastalBendTaxAca" value="1" data-name="Upgrade: Purpose Tax Academy to Power Tax Academy" data-amt="300.00" data-href="https://www.paypal.com/cgi-bin/webscr?business=petermuniz%40outlook.com&amp;item_name=Upgrade%3A+Purpose+Tax+Academy+to+Power+Tax+Academy&amp;currency_code=USD&amp;no_shipping=1&amp;return=https%3A%2F%2Fjzonkel1.github.io%2Fcbtf-preview%2Fthanks%2F%3Fpaid%3D1&amp;cmd=_xclick&amp;amount=300.00"><span><b>Purpose Tax Academy to Power Tax Academy</b><small>$699 to $999</small></span><em>$300</em></label></div><div class="pp" data-name="Upgrade: Coastal Bend Tax Academy to Purpose Tax Academy" data-amt="300.00" data-ok="../thanks/?paid=1"></div><a class="btn btn-gold pp-fallback" href="https://www.paypal.com/cgi-bin/webscr?business=petermuniz%40outlook.com&amp;item_name=Upgrade%3A+Coastal+Bend+Tax+Academy+to+Purpose+Tax+Academy&amp;currency_code=USD&amp;no_shipping=1&amp;return=https%3A%2F%2Fjzonkel1.github.io%2Fcbtf-preview%2Fthanks%2F%3Fpaid%3D1&amp;cmd=_xclick&amp;amount=300.00" rel="nofollow">Pay with PayPal</a><small class="pp-note">Secure checkout with PayPal or a debit/credit card.</small></div></div>
   </div>
 </div></section>
 
@@ -95,9 +95,9 @@
 <section class="alt"><div class="wrap">
   <div class="sec-head c"><div class="kick">How it works</div><h2>Three simple steps.</h2></div>
   <div class="steps">
-    <div class="step"><h3>Choose</h3><p>Pick the package that fits how much help you want.</p></div>
-    <div class="step"><h3>Pay</h3><p>Pay in full, or start with a $150 deposit that applies toward your package.</p></div>
-    <div class="step"><h3>Learn</h3><p>Work through the playbook at your own pace, with coaching from Pete if your package includes it.</p></div>
+    <div class="step"><h3>Choose</h3><p>Pick the academy that fits how much help you want.</p></div>
+    <div class="step"><h3>Pay</h3><p>Pay in full, or start with 50% down. Pay with Square or PayPal, with financing through eligible providers.</p></div>
+    <div class="step"><h3>Learn</h3><p>Work through the playbook at your own pace, with coaching from Pete if your academy includes it.</p></div>
   </div>
   <p class="c" style="margin-top:34px">Questions first? <a href="../contact/?type=academy"><b>Book an academy call</b></a> or call <a href="tel:+13612886140"><b><span class="nw">361-288-6140</span></b></a>.</p>
 </div></section>
@@ -245,11 +245,12 @@ document.querySelectorAll('.qw').forEach(f => {
   const els = [...document.querySelectorAll('.pp[data-amt]')]; if (!els.length) return;
   document.querySelectorAll('.opts input').forEach(r => r.addEventListener('change', () => {
     const box = r.closest('.buy'); box.querySelector('.pp-fallback').href = r.dataset.href;
+    box.classList.toggle('sq-off', r.value !== '0');
   }));
   const pick = el => { const r = el.closest('.buy').querySelector('.opts input:checked'); return r ? r.dataset : el.dataset; };
   const load = () => {
     const s = document.createElement('script');
-    s.src = 'https://www.paypal.com/sdk/js?client-id=BAA6P3uvcIh2B1DP-7oNN74NZr8NTycCrMdu5L9TuTEQL7scwtlZfbx8uaRy5oNspanAAQS7pkOBjTNnbg&currency=USD&intent=capture&components=buttons&disable-funding=paylater,credit';
+    s.src = 'https://www.paypal.com/sdk/js?client-id=BAA6P3uvcIh2B1DP-7oNN74NZr8NTycCrMdu5L9TuTEQL7scwtlZfbx8uaRy5oNspanAAQS7pkOBjTNnbg&currency=USD&intent=capture&components=buttons&enable-funding=paylater&disable-funding=credit';
     s.onload = () => els.forEach(el => {
       const box = el.closest('.buy');
       const b = paypal.Buttons({

diff --git a/index.html b/index.html
@@ -108,15 +108,15 @@
 </div></section>
 
 <section id="academy"><div class="wrap pb">
-  <div class="pb-photo"><picture><source media="(max-width:760px)" srcset="img/playbook-cover-m.webp"><img src="img/playbook-cover.webp" width="1000" height="1250" alt="The Tax Playbook by Peter Muniz, Power Tax Academy" loading="lazy" decoding="async"></picture><span class="pb-tag">Find your financial purpose</span></div>
+  <div class="pb-photo"><picture><source media="(max-width:760px)" srcset="img/playbook-cover-m.webp"><img src="img/playbook-cover.webp" width="1000" height="1250" alt="The Tax Playbook by Peter Muniz" loading="lazy" decoding="async"></picture><span class="pb-tag">Find your financial purpose</span></div>
   <div class="pb-copy">
-    <div class="kick left">Power Tax Academy</div>
+    <div class="kick left">Tax Academy</div>
     <h2><span class="nw">Learn it. Apply it.</span> <span class="nw">Teach it.</span></h2>
-    <p class="lead">Learn to handle your taxes the right way, at your own pace or with Pete coaching you. Pay in full or start with a $150 deposit.</p>
+    <p class="lead">Three levels of tax education and training, at your own pace or with Pete coaching you. Start with 50% down and upgrade anytime.</p>
     <div class="pb-list">
-      <div class="pb-item"><div class="ic"><svg viewBox="0 0 256 256" fill="currentColor"><path d="M224 48h-64a40 40 0 0 0-32 16 40 40 0 0 0-32-16H32a16 16 0 0 0-16 16v128a16 16 0 0 0 16 16h64a24 24 0 0 1 24 24 8 8 0 0 0 16 0 24 24 0 0 1 24-24h64a16 16 0 0 0 16-16V64a16 16 0 0 0-16-16Zm0 144h-64a39.81 39.81 0 0 0-24 8V88a24 24 0 0 1 24-24h64Z"/></svg></div><div><b>Tax Playbook &middot; $399</b><span>Book and training materials. Learn at your own pace.</span></div></div>
-      <div class="pb-item"><div class="ic"><svg viewBox="0 0 256 256" fill="currentColor"><path d="M230.92 212c-15.23-26.33-38.7-45.21-66.09-54.16a72 72 0 1 0-73.66 0c-27.39 8.94-50.86 27.82-66.09 54.16a8 8 0 1 0 13.85 8c18.84-32.56 52.14-52 89.07-52s70.23 19.44 89.07 52a8 8 0 1 0 13.85-8Z"/></svg></div><div><b>Tax Playbook &amp; Me &middot; $699</b><span>Everything in the Tax Playbook, plus limited personal coaching.</span></div></div>
-      <div class="pb-item"><div class="ic"><svg viewBox="0 0 256 256" fill="currentColor"><path d="M239.2 97.29a16 16 0 0 0-13.81-11L166 81.17l-23.28-55.36a15.95 15.95 0 0 0-29.44 0L90.07 81.17l-59.46 5.15a16 16 0 0 0-9.11 28.06l45.11 39.42-13.52 58.54a16 16 0 0 0 23.84 17.34l51-31 51.11 31a16 16 0 0 0 23.84-17.34l-13.51-58.6 45.1-39.36a16 16 0 0 0 4.73-17.09Z"/></svg></div><div><b>Power Tax Academy VIP &middot; $999</b><span>Unlimited scheduled coaching for 12 months, with priority scheduling.</span></div></div>
+      <div class="pb-item"><div class="ic"><svg viewBox="0 0 256 256" fill="currentColor"><path d="M224 48h-64a40 40 0 0 0-32 16 40 40 0 0 0-32-16H32a16 16 0 0 0-16 16v128a16 16 0 0 0 16 16h64a24 24 0 0 1 24 24 8 8 0 0 0 16 0 24 24 0 0 1 24-24h64a16 16 0 0 0 16-16V64a16 16 0 0 0-16-16Zm0 144h-64a39.81 39.81 0 0 0-24 8V88a24 24 0 0 1 24-24h64Z"/></svg></div><div><b>Coastal Bend Tax Academy &middot; $399</b><span>The Tax Playbook and training materials. Learn at your own pace.</span></div></div>
+      <div class="pb-item"><div class="ic"><svg viewBox="0 0 256 256" fill="currentColor"><path d="M230.92 212c-15.23-26.33-38.7-45.21-66.09-54.16a72 72 0 1 0-73.66 0c-27.39 8.94-50.86 27.82-66.09 54.16a8 8 0 1 0 13.85 8c18.84-32.56 52.14-52 89.07-52s70.23 19.44 89.07 52a8 8 0 1 0 13.85-8Z"/></svg></div><div><b>Purpose Tax Academy &middot; $699</b><span>Everything in Coastal Bend Tax Academy, plus limited personal coaching.</span></div></div>
+      <div class="pb-item"><div class="ic"><svg viewBox="0 0 256 256" fill="currentColor"><path d="M239.2 97.29a16 16 0 0 0-13.81-11L166 81.17l-23.28-55.36a15.95 15.95 0 0 0-29.44 0L90.07 81.17l-59.46 5.15a16 16 0 0 0-9.11 28.06l45.11 39.42-13.52 58.54a16 16 0 0 0 23.84 17.34l51-31 51.11 31a16 16 0 0 0 23.84-17.34l-13.51-58.6 45.1-39.36a16 16 0 0 0 4.73-17.09Z"/></svg></div><div><b>Power Tax Academy &middot; $999</b><span>Unlimited scheduled coaching for 12 months, with priority scheduling.</span></div></div>
     </div>
     <a class="btn btn-green" href="tax-academy/#packages"><svg viewBox="0 0 256 256" fill="currentColor"><path d="M208 32h-24v-8a8 8 0 0 0-16 0v8H88v-8a8 8 0 0 0-16 0v8H48a16 16 0 0 0-16 16v160a16 16 0 0 0 16 16h160a16 16 0 0 0 16-16V48a16 16 0 0 0-16-16Zm-38.34 85.66-48 48a8 8 0 0 1-11.32 0l-24-24a8 8 0 0 1 11.32-11.32L116 148.69l42.34-42.35a8 8 0 0 1 11.32 11.32ZM48 80V48h24v8a8 8 0 0 0 16 0v-8h80v8a8 8 0 0 0 16 0v-8h24v32Z"/></svg>See the Packages</a>
   </div>

diff --git a/marketplace/index.html b/marketplace/index.html
@@ -66,9 +66,9 @@
 <section><div class="wrap">
   <div class="sec-head"><div class="kick left">Products</div><h2>From our shelf.</h2></div>
   <div class="ph-grid">
-    <div class="prod"><span class="tag-soon">Power Tax Academy</span><div class="ic"><svg viewBox="0 0 256 256" fill="currentColor"><path d="M224 48h-64a40 40 0 0 0-32 16 40 40 0 0 0-32-16H32a16 16 0 0 0-16 16v128a16 16 0 0 0 16 16h64a24 24 0 0 1 24 24 8 8 0 0 0 16 0 24 24 0 0 1 24-24h64a16 16 0 0 0 16-16V64a16 16 0 0 0-16-16Zm0 144h-64a39.81 39.81 0 0 0-24 8V88a24 24 0 0 1 24-24h64Z"/></svg></div><h3>Tax Playbook</h3><div class="pkg-price">$399</div><p>Book and training materials. Learn at your own pace.</p><a class="btn btn-green" href="../tax-academy/#pkg-playbook">Choose This Package</a></div>
-    <div class="prod"><span class="tag-soon">Power Tax Academy</span><div class="ic"><svg viewBox="0 0 256 256" fill="currentColor"><path d="M230.92 212c-15.23-26.33-38.7-45.21-66.09-54.16a72 72 0 1 0-73.66 0c-27.39 8.94-50.86 27.82-66.09 54.16a8 8 0 1 0 13.85 8c18.84-32.56 52.14-52 89.07-52s70.23 19.44 89.07 52a8 8 0 1 0 13.85-8Z"/></svg></div><h3>Tax Playbook &amp; Me</h3><div class="pkg-price">$699</div><p>Everything in the Tax Playbook, plus limited personal coaching.</p><a class="btn btn-green" href="../tax-academy/#pkg-playbook-me">Choose This Package</a></div>
-    <div class="prod"><span class="tag-soon">Power Tax Academy</span><div class="ic"><svg viewBox="0 0 256 256" fill="currentColor"><path d="M239.2 97.29a16 16 0 0 0-13.81-11L166 81.17l-23.28-55.36a15.95 15.95 0 0 0-29.44 0L90.07 81.17l-59.46 5.15a16 16 0 0 0-9.11 28.06l45.11 39.42-13.52 58.54a16 16 0 0 0 23.84 17.34l51-31 51.11 31a16 16 0 0 0 23.84-17.34l-13.51-58.6 45.1-39.36a16 16 0 0 0 4.73-17.09Z"/></svg></div><h3>Power Tax Academy VIP</h3><div class="pkg-price">$999</div><p>Unlimited scheduled coaching for 12 months, with priority scheduling.</p><a class="btn btn-green" href="../tax-academy/#pkg-vip">Choose This Package</a></div>
+    <div class="prod"><span class="tag-soon">Tax Academy</span><div class="ic"><svg viewBox="0 0 256 256" fill="currentColor"><path d="M224 48h-64a40 40 0 0 0-32 16 40 40 0 0 0-32-16H32a16 16 0 0 0-16 16v128a16 16 0 0 0 16 16h64a24 24 0 0 1 24 24 8 8 0 0 0 16 0 24 24 0 0 1 24-24h64a16 16 0 0 0 16-16V64a16 16 0 0 0-16-16Zm0 144h-64a39.81 39.81 0 0 0-24 8V88a24 24 0 0 1 24-24h64Z"/></svg></div><h3>Coastal Bend Tax Academy</h3><div class="pkg-price">$399</div><p>The Tax Playbook and training materials. Learn at your own pace.</p><a class="btn btn-green" href="../tax-academy/#pkg-playbook">Choose This Academy</a></div>
+    <div class="prod"><span class="tag-soon">Tax Academy</span><div class="ic"><svg viewBox="0 0 256 256" fill="currentColor"><path d="M230.92 212c-15.23-26.33-38.7-45.21-66.09-54.16a72 72 0 1 0-73.66 0c-27.39 8.94-50.86 27.82-66.09 54.16a8 8 0 1 0 13.85 8c18.84-32.56 52.14-52 89.07-52s70.23 19.44 89.07 52a8 8 0 1 0 13.85-8Z"/></svg></div><h3>Purpose Tax Academy</h3><div class="pkg-price">$699</div><p>Everything in Coastal Bend Tax Academy, plus limited personal coaching.</p><a class="btn btn-green" href="../tax-academy/#pkg-playbook-me">Choose This Academy</a></div>
+    <div class="prod"><span class="tag-soon">Tax Academy</span><div class="ic"><svg viewBox="0 0 256 256" fill="currentColor"><path d="M239.2 97.29a16 16 0 0 0-13.81-11L166 81.17l-23.28-55.36a15.95 15.95 0 0 0-29.44 0L90.07 81.17l-59.46 5.15a16 16 0 0 0-9.11 28.06l45.11 39.42-13.52 58.54a16 16 0 0 0 23.84 17.34l51-31 51.11 31a16 16 0 0 0 23.84-17.34l-13.51-58.6 45.1-39.36a16 16 0 0 0 4.73-17.09Z"/></svg></div><h3>Power Tax Academy</h3><div class="pkg-price">$999</div><p>Unlimited scheduled coaching for 12 months, with priority scheduling.</p><a class="btn btn-green" href="../tax-academy/#pkg-vip">Choose This Academy</a></div>
     <div class="prod open"><span class="tag-soon">Coming soon</span><div class="ic"><svg viewBox="0 0 256 256" fill="currentColor"><path d="M224 128a8 8 0 0 1-8 8h-80v80a8 8 0 0 1-16 0v-80H40a8 8 0 0 1 0-16h80V40a8 8 0 0 1 16 0v80h80a8 8 0 0 1 8 8Z"/></svg></div><h3>Your product here</h3><p>New products from Coastal Bend Tax &amp; Financial and our partners are on the way.</p><a class="btn btn-line" href="../contact/?type=list">Feature Your Product</a></div>
   </div>
 </div></section>

diff --git a/terms/index.html b/terms/index.html
@@ -59,7 +59,7 @@
   <h2>General information only</h2><p>Content on this website is general information. It is not tax, legal, accounting or investment advice for your situation, and reading it does not make you a client. A client relationship starts only when we agree on the work.</p>
   <h2>Who provides each service</h2><p>Coastal Bend Tax &amp; Financial is not a CPA firm. Peter Muniz is a registered tax return preparer with an IRS Preparer Tax Identification Number (PTIN). Services marked &ldquo;coordinated with partners&rdquo; or &ldquo;through strategic partners&rdquo; are provided by independent licensed professionals, such as CPAs, enrolled agents, attorneys and licensed insurance professionals, who are responsible for their own work and terms. We do not sell securities or give investment advice.</p>
   <h2>Marketplace</h2><p>Businesses in the Marketplace are independent. We make introductions; any work, price and warranty is between you and that business.</p>
-  <h2>Products and programs</h2><p>Prices and what each Power Tax Academy package and support service includes are listed on the Tax Academy page. Payments are processed by PayPal. A deposit applies toward the package you chose. Questions about a purchase: call <span class="nw">361-288-6140</span> or email <a href="mailto:petermuniz@coastalbendfinancial.com">petermuniz<wbr>@coastalbendfinancial.com</a>.</p>
+  <h2>Products and programs</h2><p>Prices and what each tax academy and support service includes are listed on the Tax Academy page. The academies are tax education and training, not tax preparation services. Payments are processed by Square or PayPal. If you start with 50% down, the remaining balance is still owed. Questions about a purchase: call <span class="nw">361-288-6140</span> or email <a href="mailto:petermuniz@coastalbendfinancial.com">petermuniz<wbr>@coastalbendfinancial.com</a>.</p>
   <h2>Contact</h2><p>Questions: call <span class="nw">361-288-6140</span> or email <a href="mailto:petermuniz@coastalbendfinancial.com">petermuniz<wbr>@coastalbendfinancial.com</a>.</p>
 </div></section>
 </main>

diff --git a/css/site.css b/css/site.css
@@ -643,6 +643,9 @@ p,li,blockquote,.net-cat span{text-wrap:pretty}
 .buy.pp-on .pp-fallback{display:none}
 .buy .pp-fallback{align-self:flex-start}
 .buy .pp-note{font-size:.84rem;color:var(--muted)}
+.buy .sq-btn{align-self:stretch;max-width:340px;justify-content:center}
+.buy .pp-or{font-size:.8rem;color:var(--muted);text-align:center;max-width:340px}
+.buy.sq-off .sq-btn,.buy.sq-off .pp-or{display:none}
 .pkg-grid{display:grid;grid-template-columns:repeat(3,1fr);gap:22px;margin-top:44px;align-items:stretch}
 .pkg-grid.two{grid-template-columns:repeat(2,1fr);max-width:860px;margin-inline:auto}
 .pkg{position:relative;background:#FBF8F1;border:1px solid var(--line);border-radius:20px;padding:30px 26px;display:flex;flex-direction:column;gap:12px;scroll-margin-top:100px}
